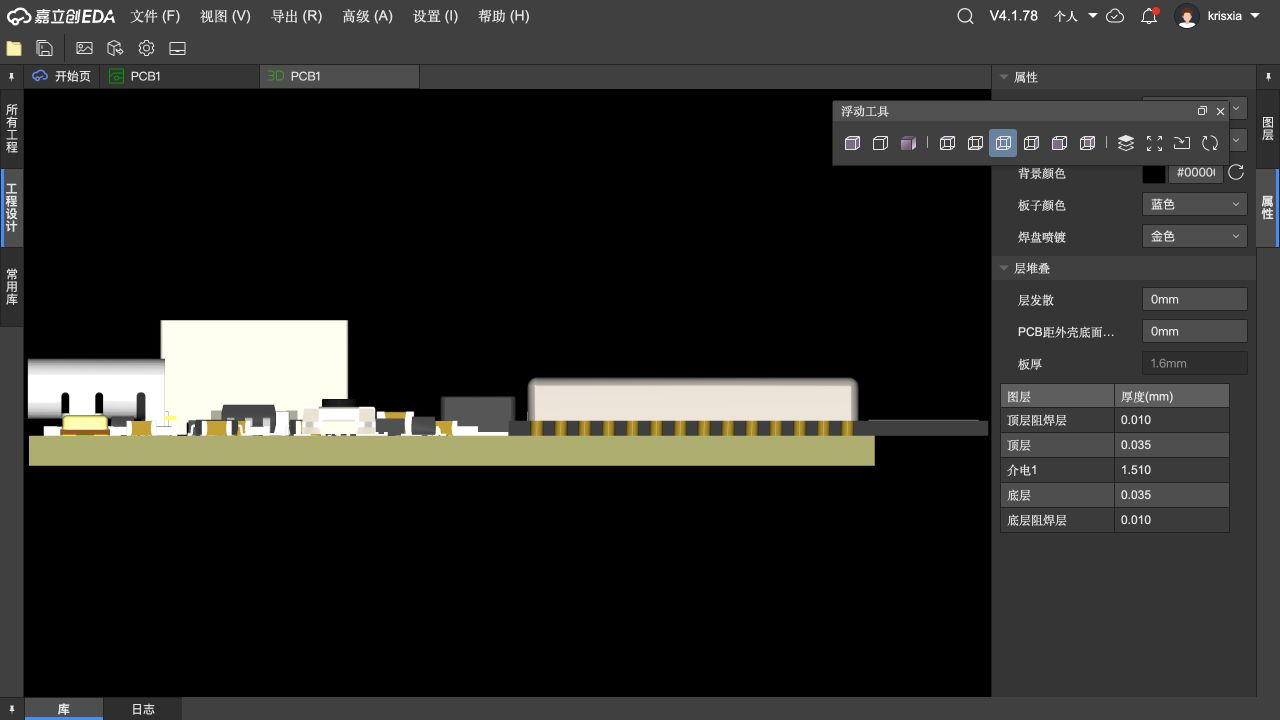
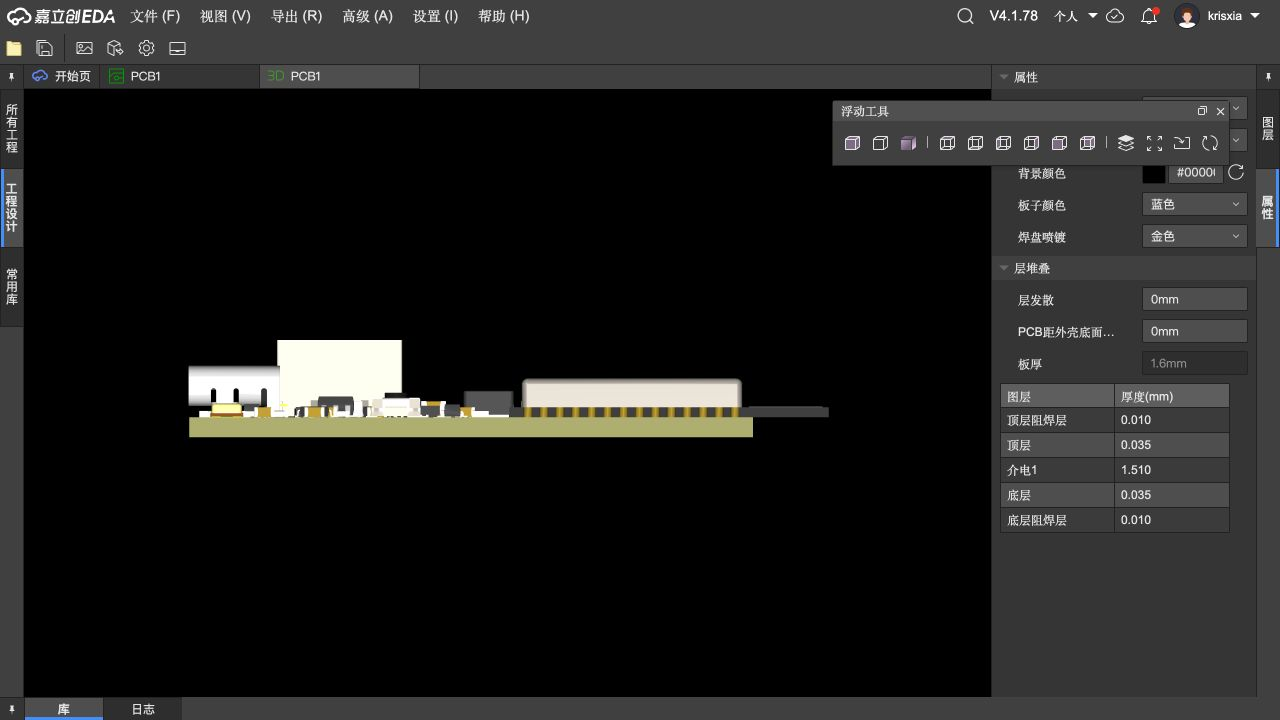
整理整板七视角预览并修正侧视图裁切

Changed region(s): [[0.0, 0.4278, 0.7812, 0.6722], [0.75, 0.1833, 0.8125, 0.2139]]

diff --git a/hardware/integrated-pcba/lceda-pro/previews/README.md b/hardware/integrated-pcba/lceda-pro/previews/README.md
@@ -1,0 +1,37 @@
+# VOXU A2 多角度预览
+
+2026-10-24 短边居中版。以下为立创 EDA 专业版实际模型截图。板框 37 × 45 mm，厚 1.6 mm；ESP32 天线另伸出约 6 mm。渲染为蓝色阻焊/金色焊盘，仅用于几何观察；当前低成本报价选项是绿色阻焊/OSP，成品颜色和表面外观会不同。
+
+[完整原生源工程](../../source-backups/2026-10-24-short-edge/VOXU-A2-37x45-TypeC-centered.epro2) · [装配 STEP 模型](../../source-backups/2026-10-24-short-edge/VOXU_A2_37x45_TypeC_centered.step)
+
+## 整板透视
+
+![整板透视](short-edge-perspective.png)
+
+## 俯视：Type-C 在上方短边正中
+
+![俯视：Type-C 在上方短边正中](short-edge-top.png)
+
+## 从 Type-C 插口看向主板
+
+![从 Type-C 插口看向主板](short-edge-usb-end.png)
+
+## 从天线端看向主板
+
+![从天线端看向主板](short-edge-front.png)
+
+## 左侧
+
+![左侧](short-edge-left.png)
+
+## 右侧
+
+![右侧](short-edge-right.png)
+
+## 底面
+
+![底面](short-edge-bottom.png)
+
+## 检查范围
+
+原生 DRC：141 项、0 问题。3D 模型检查只能说明模型中可见的布局与方向，不替代实际器件公差、USB 插头外壳间隙、功能测试和制造审查。该版尚未放行生产，实际 PCBA 总价仍待取得。
